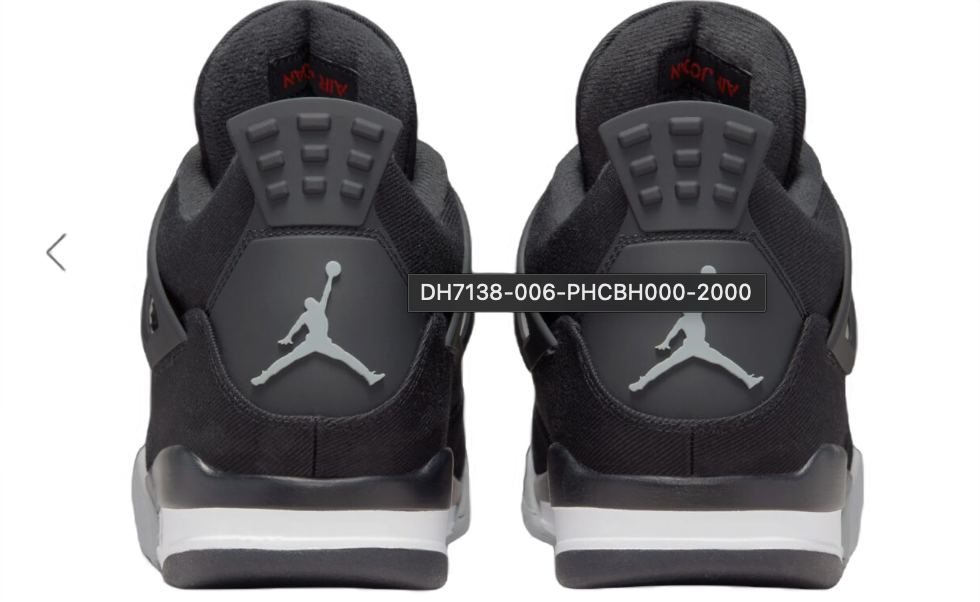
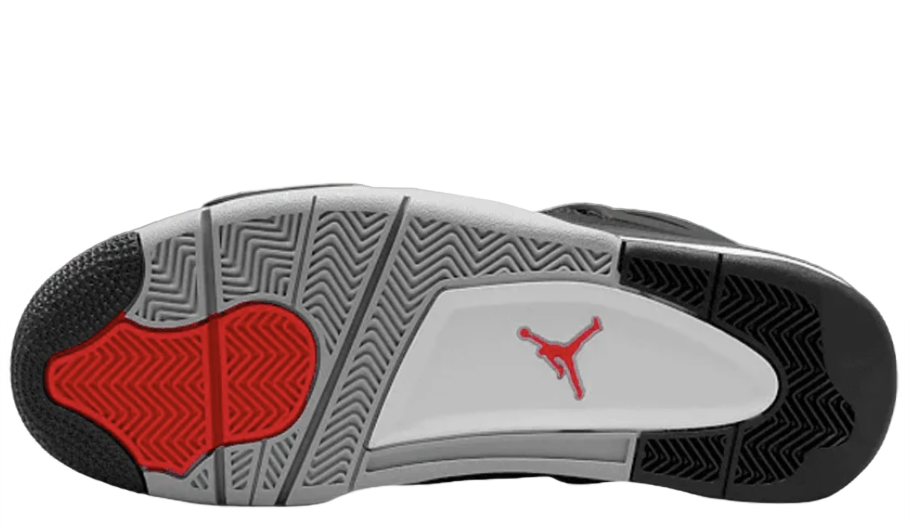
Fix Image Design

diff --git a/FoamSand.html b/FoamSand.html
@@ -58,7 +58,7 @@ $( document ).ready(function() {
 </head>
 
 <style>
-    body{background-color: black;}
+    body{background-color: white;}
 </style>
 
 <body>
@@ -94,9 +94,11 @@ $( document ).ready(function() {
         </div>
     <div class="owl-carousel owl-theme">
     
-        <img src="img/Sand1.jpg"alt="Image" style="max-width: 100%">
-        <img src="img/Sand2.jpg"alt="Image" style="max-width: 100%">
-        <img src="img/Sand3.jpg"alt="Image" style="max-width: 100%">
+        <img src="img/Sand2.png"alt="Image" style="max-width: 100%">
+        <img src="img/Sand3.png"alt="Image" style="max-width: 100%">
+        <img src="img/Sand4.png"alt="Image" style="max-width: 100%">
+        <img src="img/Sand5.png"alt="Image" style="max-width: 100%">
+    </div>
     </div>
     
         <footer class="tm-bg-gray pt-5 pb-3 tm-text-gray tm-footer">

diff --git a/YeezyFoam.html b/YeezyFoam.html
@@ -58,7 +58,7 @@ $( document ).ready(function() {
 </head>
 
 <style>
-    body{background-color: black;}
+    body{background-color: white;}
 </style>
 
 <body>
@@ -94,9 +94,10 @@ $( document ).ready(function() {
         </div>
     <div class="owl-carousel owl-theme">
     
-        <img src="img/YeezyFoam1.jpg"alt="Image" style="max-width: 100%">
-        <img src="img/YeezyFoam2.jpg"alt="Image" style="max-width: 100%">
+        <img src="img/YeezyFoam2.png"alt="Image" style="max-width: 100%">
         <img src="img/YeezyFoam3.png"alt="Image" style="max-width: 100%">
+        <img src="img/YeezyFoam4.png"alt="Image" style="max-width: 100%">
+        <img src="img/YeezyFoam5.png"alt="Image" style="max-width: 100%">
     </div>
     
         <footer class="tm-bg-gray pt-5 pb-3 tm-text-gray tm-footer">
